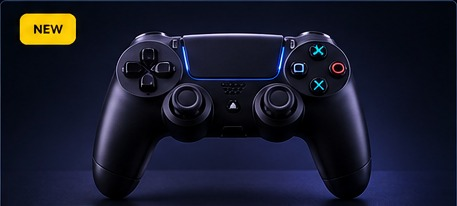
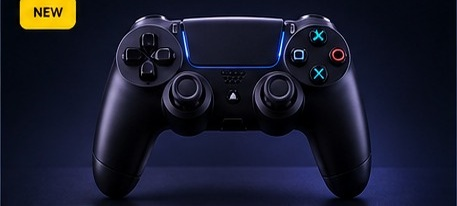
Add files via upload

diff --git a/index.html b/index.html
@@ -3,7 +3,7 @@
 *{box-sizing:border-box}html{scroll-behavior:smooth;scroll-padding-top:90px}body{margin:0;background:#03050a;color:#fff;font-family:Arial,sans-serif}:root{--c:#00cfff;--v:#8a2cff;--p:#090d16;--l:#1b2a45}
 header{height:76px;display:flex;align-items:center;padding:0 4%;border-bottom:1px solid var(--l);position:sticky;top:0;background:#03050af5;z-index:5}.brand{display:flex;align-items:center;gap:10px;font-size:24px;font-weight:900;letter-spacing:2px}.mark{font-size:38px;font-style:italic;color:var(--c);text-shadow:8px 0 18px var(--v)}nav{margin:auto;display:flex;gap:28px}nav a{color:#fff;text-decoration:none;font-size:12px;font-weight:800}.bag{border:1px solid var(--c);padding:13px 18px;font-weight:900}
 .hero{min-height:500px;display:grid;grid-template-columns:40% 60%;border-bottom:1px solid var(--l);overflow:hidden;background:#030711}.copy{padding:60px 8%;display:flex;flex-direction:column;justify-content:center;background:radial-gradient(circle at 20% 40%,#09162d,#03050a 60%)}.eye{color:var(--c);font-weight:900;letter-spacing:6px;font-size:12px}h1{font-size:68px;line-height:.92;margin:14px 0 22px;letter-spacing:-2px}h1 span{background:linear-gradient(90deg,var(--c),var(--v));-webkit-background-clip:text;color:transparent}.copy p{color:#cbd3e2;line-height:1.6;font-size:17px}.heroart{background:url("hero.jpg") center center/cover no-repeat;position:relative;min-width:0;overflow:hidden}.heroart:after{content:"";position:absolute;inset:0;background:linear-gradient(90deg,rgba(3,7,17,.18),transparent 35%)}.actions{display:flex;gap:12px;margin-top:14px}.btn{padding:15px 21px;border:1px solid var(--c);color:#fff;text-decoration:none;font-weight:900;font-size:12px}.primary{background:linear-gradient(90deg,#00bfe8,#812cff);border:0}
-.benefits{display:grid;grid-template-columns:repeat(4,1fr);border-bottom:1px solid var(--l)}.benefits div{padding:22px;text-align:center;border-right:1px solid var(--l);font-size:12px}.benefits small{display:block;color:#8d99ad;margin-top:5px}section{padding:64px 5%}.head{display:flex;justify-content:space-between;align-items:end;margin:0 auto 24px;max-width:1240px}h2{font-size:40px;margin:6px 0}.products{display:grid;grid-template-columns:repeat(3,minmax(0,1fr));gap:20px;max-width:1240px;margin:auto}.card{background:var(--p);border:1px solid #263451;overflow:hidden}.card:hover{border-color:var(--v);transform:translateY(-4px)}.card img{width:100%;height:245px;object-fit:cover;object-position:center;display:block;background:#070b13}.info{padding:16px;min-height:205px;display:flex;flex-direction:column}.info .price{margin-top:auto}.tag{background:var(--v);font-size:9px;font-weight:900;padding:5px 8px;border-radius:4px}.info h3{font-size:15px;margin:12px 0 5px}.type{font-size:12px;color:#9ba7bb}.stars{color:#ffd92f;margin:9px 0}.price{font-size:20px;font-weight:900;margin-bottom:12px}button{width:100%;padding:12px;background:transparent;color:#fff;border:1px solid var(--c);font-weight:900;cursor:pointer}button:hover{background:linear-gradient(90deg,#00bfe8,#812cff)}.banner{margin:0 4% 45px;padding:35px;background:linear-gradient(110deg,#081125,#16073a);border:1px solid #4930a5;display:flex;align-items:center;justify-content:space-between}footer{padding:28px 4%;border-top:1px solid var(--l);color:#8290a8;display:flex;justify-content:space-between;font-size:12px}#toast{display:none;position:fixed;right:20px;bottom:20px;background:#11182a;border:1px solid var(--c);padding:15px;z-index:9}
+.benefits{display:grid;grid-template-columns:repeat(4,1fr);border-bottom:1px solid var(--l)}.benefits div{padding:22px;text-align:center;border-right:1px solid var(--l);font-size:12px}.benefits small{display:block;color:#8d99ad;margin-top:5px}section{padding:64px 5%}.head{display:flex;justify-content:space-between;align-items:end;margin:0 auto 24px;max-width:1080px}h2{font-size:40px;margin:6px 0}.products{display:grid;grid-template-columns:repeat(3,minmax(0,1fr));gap:18px;max-width:1080px;margin:0 auto}.card{background:var(--p);border:1px solid #263451;overflow:hidden}.card:hover{border-color:var(--v);transform:translateY(-4px)}.card img{width:100%;height:230px;object-fit:cover;object-position:center;display:block;background:#070b13}.info{padding:16px;min-height:205px;display:flex;flex-direction:column}.info .price{margin-top:auto}.tag{background:var(--v);font-size:9px;font-weight:900;padding:5px 8px;border-radius:4px}.info h3{font-size:15px;margin:12px 0 5px}.type{font-size:12px;color:#9ba7bb}.stars{color:#ffd92f;margin:9px 0}.price{font-size:20px;font-weight:900;margin-bottom:12px}button{width:100%;padding:12px;background:transparent;color:#fff;border:1px solid var(--c);font-weight:900;cursor:pointer}button:hover{background:linear-gradient(90deg,#00bfe8,#812cff)}.banner{margin:0 4% 45px;padding:35px;background:linear-gradient(110deg,#081125,#16073a);border:1px solid #4930a5;display:flex;align-items:center;justify-content:space-between}footer{padding:28px 4%;border-top:1px solid var(--l);color:#8290a8;display:flex;justify-content:space-between;font-size:12px}#toast{display:none;position:fixed;right:20px;bottom:20px;background:#11182a;border:1px solid var(--c);padding:15px;z-index:9}
 @media(max-width:1050px){.products{grid-template-columns:repeat(2,1fr)}.hero{grid-template-columns:1fr}.heroart{min-height:350px}}@media(max-width:650px){nav{display:none}h1{font-size:50px}.products{grid-template-columns:1fr}.benefits{grid-template-columns:1fr 1fr}.card img{height:180px}}
 </style></head><body>
 <header><div class="brand"><span class="mark">B</span>BERTIGNAC</div><nav><a href="#">HOME</a><a href="#shop">SHOP</a><a href="#shop">PC BUILDS</a><a href="#shop">PERIPHERALS</a><a href="#shop">ACCESSORIES</a></nav><div class="bag">BAG (<span id="count">0</span>)</div></header>

diff --git a/README.md b/README.md
@@ -1,10 +1,13 @@
-# BERTIGNAC GAMING STORE V6 — REAL HERO FIX
+# BERTIGNAC GAMING STORE V7 — CLEAN IMAGES
 
-This version fixes the actual problem visible in the screenshot:
-the hero image no longer contains enlarged product-card UI.
+Final GitHub Pages package.
 
-The hero is now a clean BERTIGNAC gaming setup image (monitor, PC, keyboard,
-mouse and headset), while product cards exist only in the Best Sellers section.
+Actual fix in this version:
+- Removed the colored badges baked into the product images
+- Kept only the clean HTML badge once per product
+- Normalized all six product image crops
+- Balanced the 3 x 2 product grid
+- Clean gaming hero remains intact
+- All assets are local; no build step
 
-Ready for GitHub Pages. Replace ALL old repository files with the contents of
-this ZIP.
+Replace ALL previous repository files with the contents of this ZIP.
